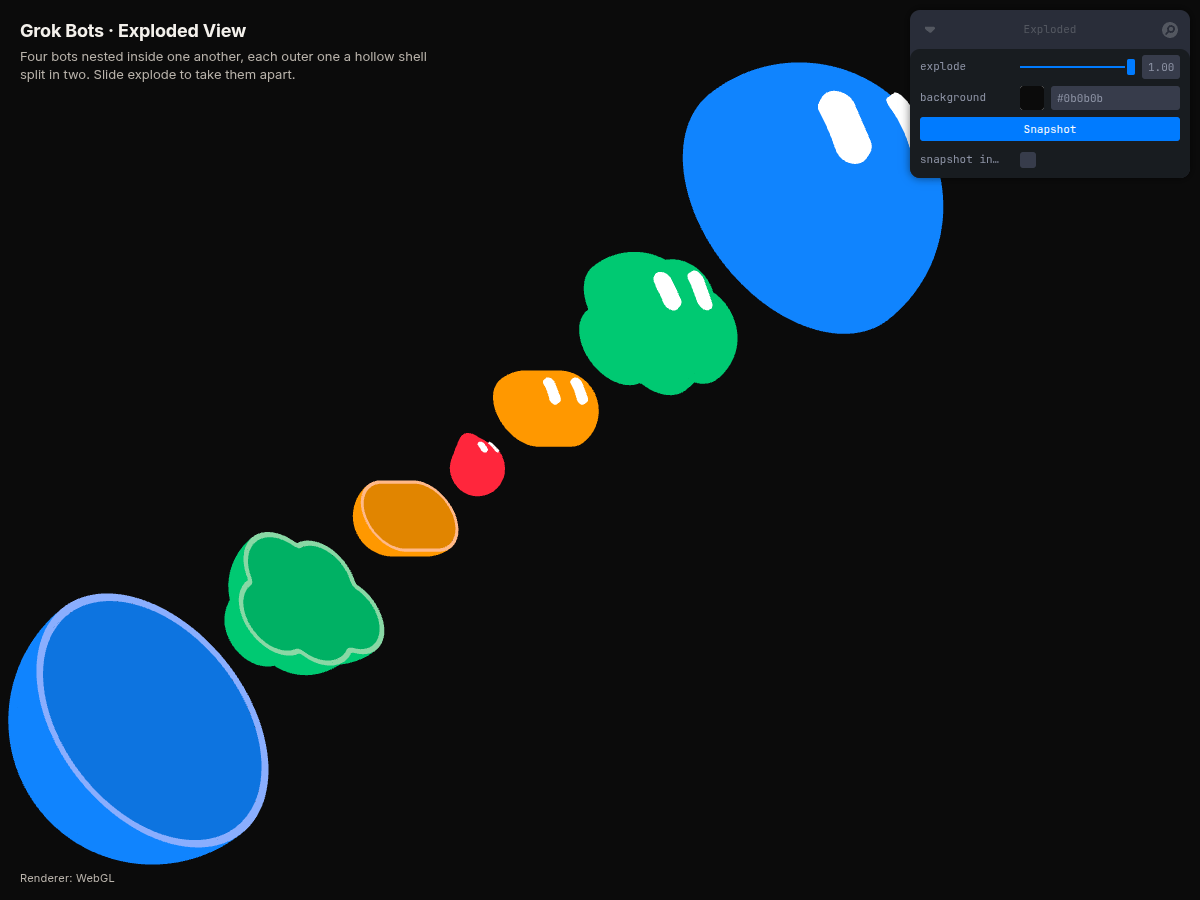
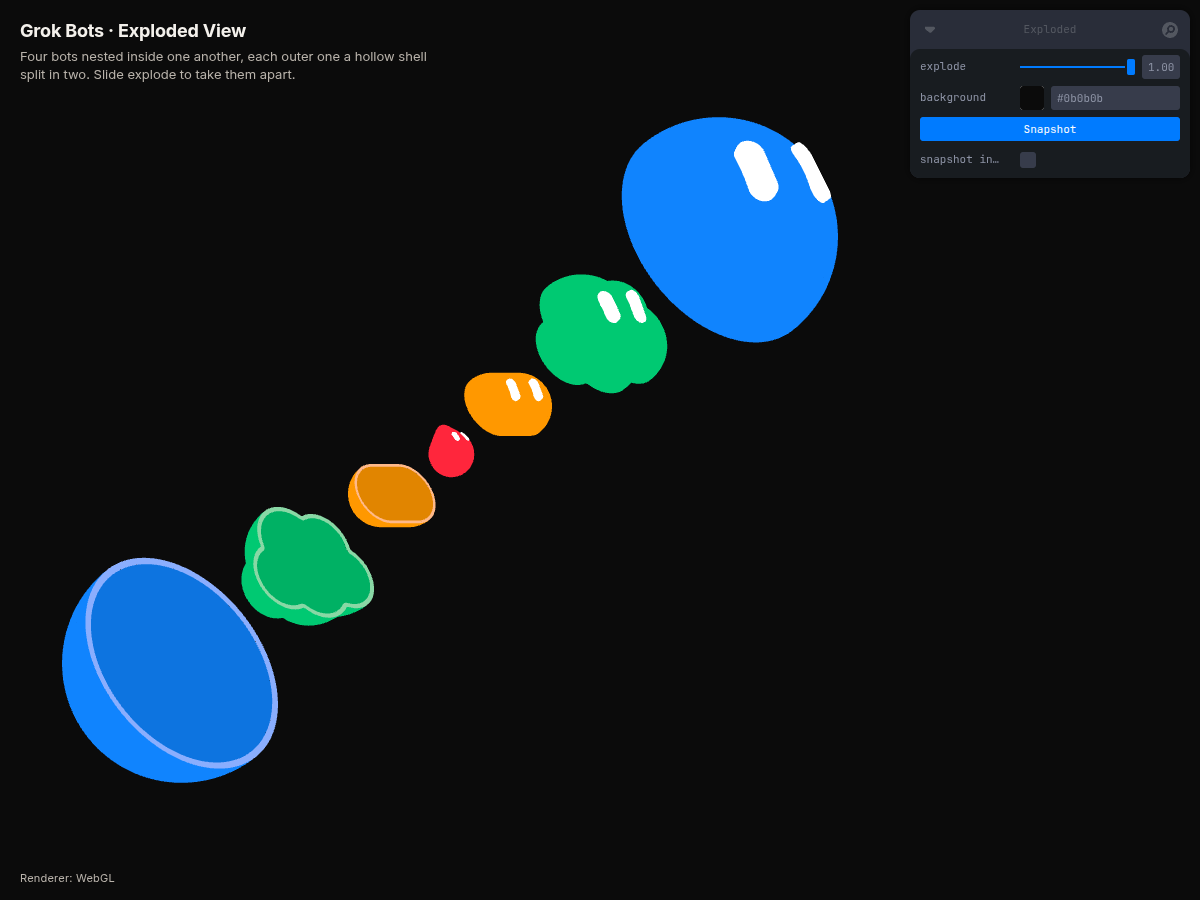
Exploded view: frame the camera once to the assembly's exact projected bounds at explode 1 with an 8% margin, keeping a 300 px gutter for the Leva panel on wide viewports; README and docs/screenshot-exploded.png updated

Changed region(s): [[0.0, 0.0622, 0.8017, 0.9644]]

diff --git a/src/Scene.tsx b/src/Scene.tsx
@@ -10,14 +10,16 @@ import type { ShapeId } from "./data/shapes";
 import { StatusOverlay, detectWebGL, useGlobalErrors } from "./Status";
 import { boundingRadius, buildHalfShells } from "./halfShell";
 
-/** World units visible top-to-bottom; width follows the aspect ratio. */
-const VIEW_HEIGHT = 10;
 /** Default page colour: near black, like the reference. */
 const BACKGROUND = "#0b0b0b";
-/** Bounding radius of the outer bot, world units. */
+/** Bounding radius of the outer bot, world units (the camera frames the assembly, so this only sets the scale). */
 const OUTER_RADIUS = 1.6;
-/** Where the assembly sits (the Leva panel covers the right edge). */
-const CENTRE = new THREE.Vector3(-1.38, -0.15, 0);
+/** Where the assembly sits. */
+const CENTRE = new THREE.Vector3(0, 0, 0);
+/** Framing: margin around the assembly's explode-1 bounds, and the strip the Leva panel covers on wide viewports. */
+const FRAME_MARGIN = 0.08;
+const LEVA_GUTTER_PX = 300;
+const LEVA_COLLAPSE_PX = 720;
 /**
  * 3/4 view: the assembly (which faces +z) is turned so its axis runs lower-left
  * to upper-right and toward the camera. A little more across the axis than
@@ -63,16 +65,34 @@ const smoothstep = (p: number) => {
   return e * e * (3 - 2 * e);
 };
 
-/** Orthographic camera straight down -Z; VIEW_HEIGHT world units fill the viewport height. */
-function CameraRig() {
+/** Screen-plane bounds of the assembly, world units (the camera looks down -Z, so x and y project as they are). */
+type Bounds = { minX: number; maxX: number; minY: number; maxY: number };
+
+/**
+ * Orthographic camera straight down -Z, framed once to the assembly's bounds
+ * at explode 1 with FRAME_MARGIN around them (static, so nothing zooms while
+ * the slider moves), inside the part of the viewport the Leva panel does not
+ * cover: on viewports wide enough for the open panel, the right
+ * LEVA_GUTTER_PX are left free and the assembly is centred in the rest.
+ */
+function CameraRig({ bounds }: { bounds: Bounds }) {
   const { camera, size } = useThree();
   useLayoutEffect(() => {
     const cam = camera as THREE.OrthographicCamera;
-    cam.position.set(0, 0, 40);
+    const gutter = size.width >= LEVA_COLLAPSE_PX ? LEVA_GUTTER_PX : 0;
+    const usableW = Math.max(1, size.width - gutter);
+    const w = (bounds.maxX - bounds.minX) * (1 + 2 * FRAME_MARGIN);
+    const h = (bounds.maxY - bounds.minY) * (1 + 2 * FRAME_MARGIN);
+    const zoom = Math.min(usableW / w, size.height / h);
+    // The content centre lands in the middle of the usable area: the camera
+    // centre is half a gutter to the right of it.
+    const cx = (bounds.minX + bounds.maxX) / 2 + gutter / 2 / zoom;
+    const cy = (bounds.minY + bounds.maxY) / 2;
+    cam.position.set(cx, cy, 40);
     cam.rotation.set(0, 0, 0);
-    cam.zoom = size.height / VIEW_HEIGHT;
+    cam.zoom = zoom;
     cam.updateProjectionMatrix();
-  }, [camera, size.height]);
+  }, [camera, size.width, size.height, bounds]);
   return null;
 }
 
@@ -264,6 +284,29 @@ function buildPieces(bots: BotGeometry[], quality: Quality): { pieces: Piece[]; 
   return { pieces, fits, radii };
 }
 
+/** The assembly's rotation to the 3/4 view. */
+const ASSEMBLY_EULER = new THREE.Euler((-PITCH_DEG * Math.PI) / 180, (YAW_DEG * Math.PI) / 180, 0, "YXZ");
+
+/** Screen-plane bounds of every piece's vertices at explode 1 (exact, computed once per build). */
+function assemblyBounds(pieces: Piece[]): Bounds {
+  const m = new THREE.Matrix4().makeRotationFromEuler(ASSEMBLY_EULER);
+  const b: Bounds = { minX: Infinity, maxX: -Infinity, minY: Infinity, maxY: -Infinity };
+  const v = new THREE.Vector3();
+  for (const p of pieces) {
+    const pos = p.bot.geometry.attributes.position as THREE.BufferAttribute;
+    for (let i = 0; i < pos.count; i++) {
+      v.fromBufferAttribute(pos, i).multiplyScalar(p.scale);
+      v.z += p.offset;
+      v.applyMatrix4(m).add(CENTRE);
+      if (v.x < b.minX) b.minX = v.x;
+      if (v.x > b.maxX) b.maxX = v.x;
+      if (v.y < b.minY) b.minY = v.y;
+      if (v.y > b.maxY) b.maxY = v.y;
+    }
+  }
+  return b;
+}
+
 /**
  * The assembly: seven pieces on one axis (the bots' +z), the whole group
  * turned to the 3/4 view. `explode` slides each piece along the axis by its
@@ -284,7 +327,7 @@ function Assembly({
     const a = assembly.current;
     if (a) {
       a.position.copy(CENTRE);
-      a.rotation.set((-PITCH_DEG * Math.PI) / 180, (YAW_DEG * Math.PI) / 180, 0, "YXZ");
+      a.rotation.copy(ASSEMBLY_EULER);
     }
     const e = smoothstep(explode);
     for (let i = 0; i < pieces.length; i++) {
@@ -350,6 +393,7 @@ function Framed({
   );
   const groups = useRef<(THREE.Group | null)[]>([]);
   const scene = useThree((s) => s.scene);
+  const frame = useMemo(() => assemblyBounds(built.pieces), [built]);
 
   const bounds = useRef<() => THREE.Box3 | null>(() => null);
   useEffect(() => {
@@ -386,6 +430,7 @@ function Framed({
       explode,
       eased: smoothstep(explode),
       quality,
+      frame,
       radii: built.radii,
       fits: built.fits,
       pieces: built.pieces.map((p, i) => {
@@ -402,11 +447,11 @@ function Framed({
         };
       }),
     });
-  }, [scene, built, explode, quality]);
+  }, [scene, built, explode, quality, frame]);
 
   return (
     <>
-      <CameraRig />
+      <CameraRig bounds={frame} />
       <Snapshot boundsRef={bounds} captureRef={captureRef} openInTab={snapshotInTab} />
       {renderer === "canvas2d" ? <Canvas2DStage /> : null}
       <Assembly pieces={built.pieces} explode={explode} groupsRef={groups} />

diff --git a/README.md b/README.md
@@ -53,12 +53,17 @@ No Sphere container, no cascade. Live at
   ties along the shared cut edge (otherwise the lighter rim bleeds into the
   seam at explode 0). The core is the solid `teardrop`. Eyes are each bot's
   own pills on its front half and on the core.
-- **View:** orthographic camera straight on; the assembly group is turned
-  yaw 42°, pitch 28° (a little more across the axis than the classic 35/25,
-  so a front half's face — which points up the axis at the next, larger,
-  nearer piece — is not covered by it), which puts the axis lower-left to
-  upper-right on screen with the front halves nearer. Plain page colour
-  behind a transparent canvas (`background` picker, default `#0b0b0b`).
+- **View:** orthographic camera straight on, framed once to the assembly's
+  projected bounds at explode 1 (every piece's vertices, exact) with an 8%
+  margin — static, so nothing zooms while the slider moves — and, on
+  viewports wide enough for the open Leva panel (≥ 720 px), inside the part
+  of the viewport left of a 300 px gutter so the panel never covers a piece.
+  The assembly group is turned yaw 42°, pitch 28° (a little more across the
+  axis than the classic 35/25, so a front half's face — which points up the
+  axis at the next, larger, nearer piece — is not covered by it), which puts
+  the axis lower-left to upper-right on screen with the front halves nearer.
+  Plain page colour behind a transparent canvas (`background` picker,
+  default `#0b0b0b`).
 - **Explode:** order along the axis back L0, back L1, back L2, core, front
   L2, front L1, front L0; each piece's full offset is the sum of the gaps
   outward of it, a gap being 1.8 × that layer's radius (so the stack reads
@@ -81,10 +86,11 @@ No Sphere container, no cascade. Live at
   `background`, `Snapshot`, `snapshot in tab`. Nothing else.
   `?renderer=canvas2d` forces the fallback.
 - **Test hooks:** `window.__grokExploded()` (explode and eased value,
-  quality, per-layer radii and fit results, every piece's offset, current
-  slide, triangle count and world position), `__grokScene()`. Verified
-  headless at 1200×900 with SwiftShader WebGL and with the Canvas 2D
-  renderer at explode 0, 0.5 and 1: a closed sphere with eyes at 0 (no seam
+  quality, the framing bounds, per-layer radii and fit results, every
+  piece's offset, current slide, triangle count and world position),
+  `__grokScene()`. Verified headless at 1200×900 and 900×1200 with
+  SwiftShader WebGL and with the Canvas 2D renderer at explode 0, 0.5 and 1
+  (whole assembly in frame, clear of the panel, at both sizes): a closed sphere with eyes at 0 (no seam
   at the cut); at 0.5 the inner bots visible and correctly nested in the
   back halves' cavities; at 1 all seven pieces separated with clear
   cavities, lighter cut rims, darker insides, eyes on every front half and
